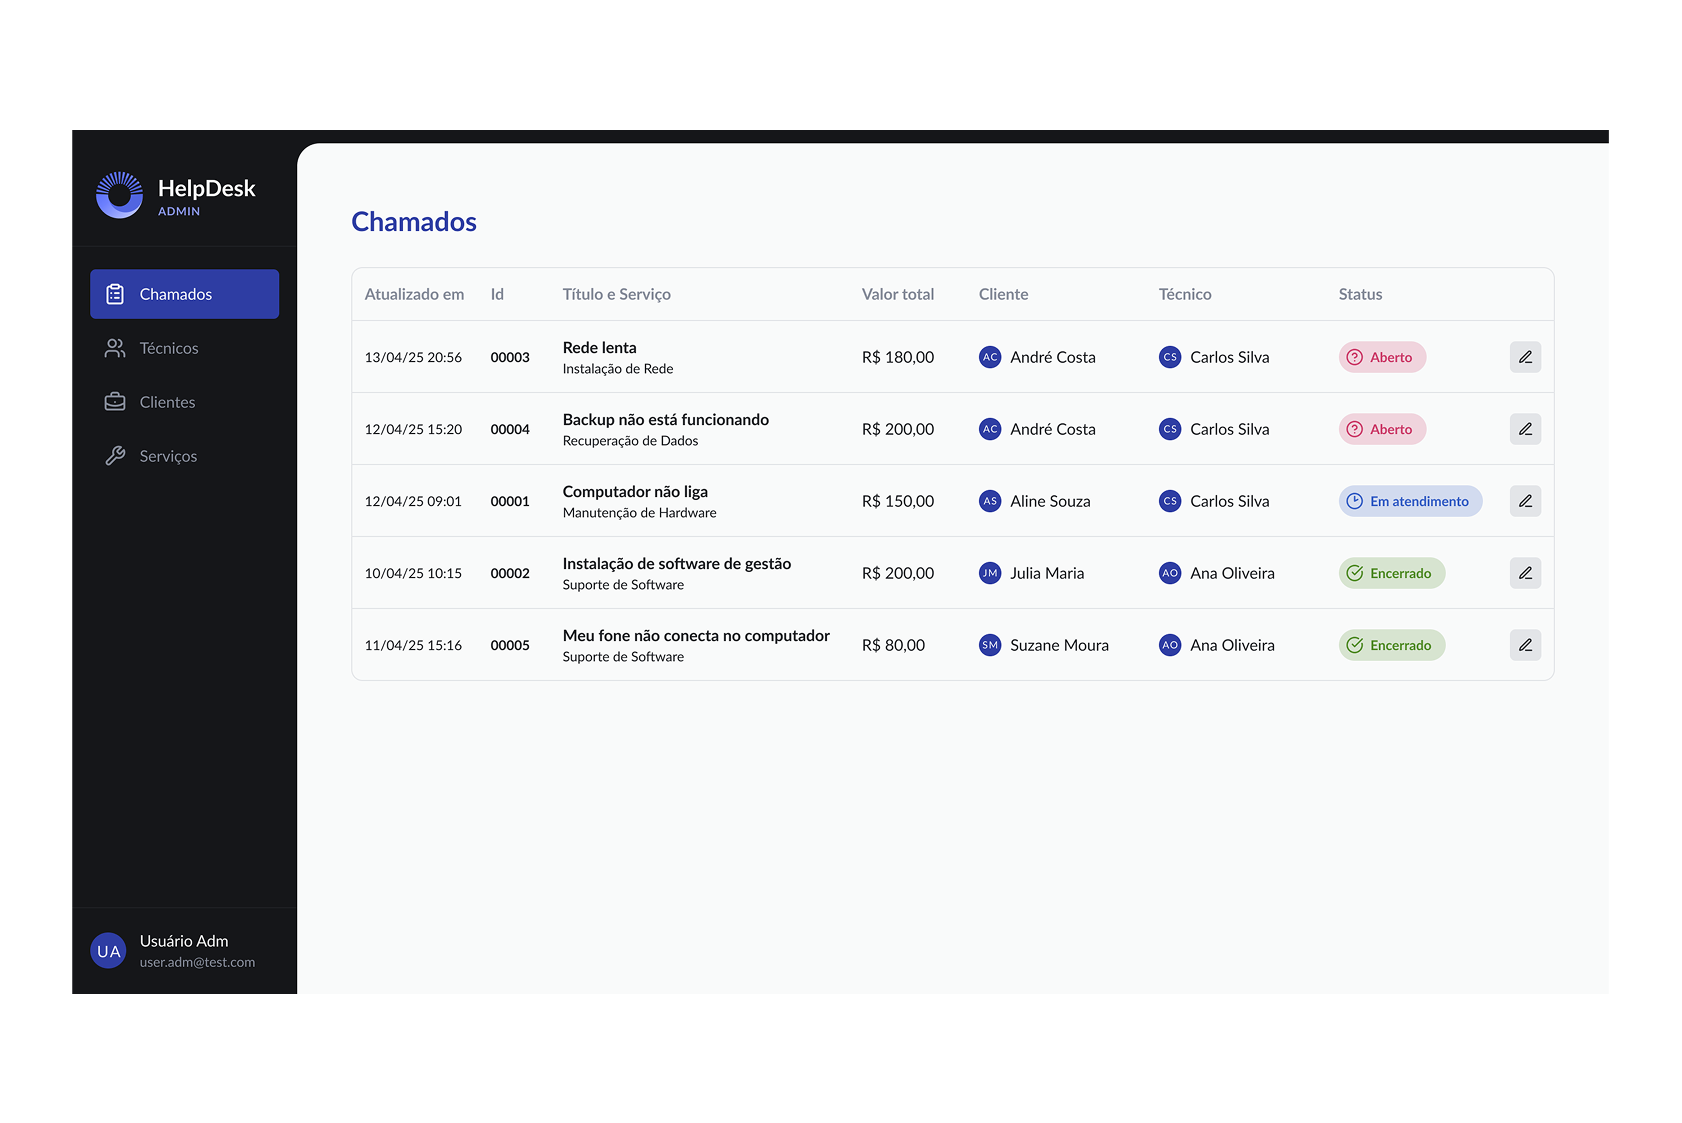
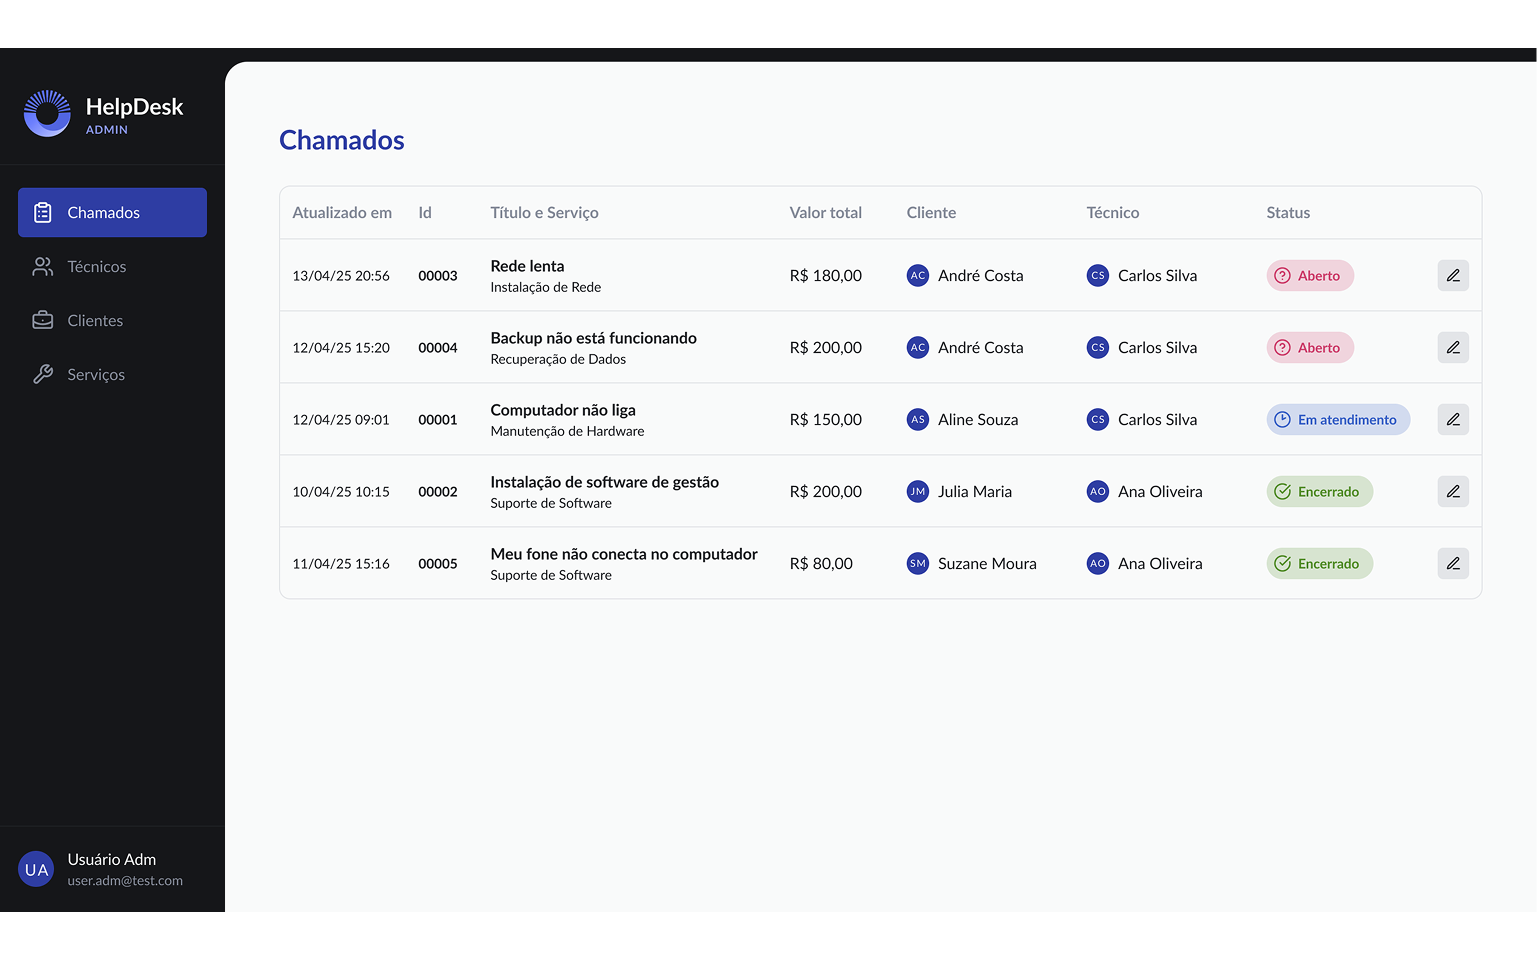
Add HairDay images and update project exports
Add HairDay thumbnail and detail images (src/assets/images/projects/Thumbnail/HairDayThumb.webp, src/assets/images/projects/Details/HairDayDetails.webp). Replace updated HelpDesk and Refund project images and update Refund thumbnail. Export new HairDay assets in src/assets/images/projects/index.ts and adjust image exports accordingly.

diff --git a/src/assets/images/projects/index.ts b/src/assets/images/projects/index.ts
@@ -3,6 +3,8 @@ export { default as AgendaPetThumb } from "./Thumbnail/AgendaPetThumb.webp";
 export { default as AgendaPetDetails } from "./Details/AgendaPetDetails.webp";
 
 // Hair Day
+export { default as HairDayThumb } from "./Thumbnail/HairDayThumb.webp";
+export { default as HairDayDetails } from "./Details/HairDayDetails.webp";
 
 // Refund
 export { default as RefundThumb } from "./Thumbnail/RefundThumb.webp";
